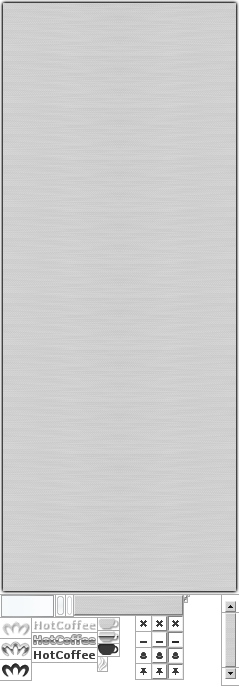
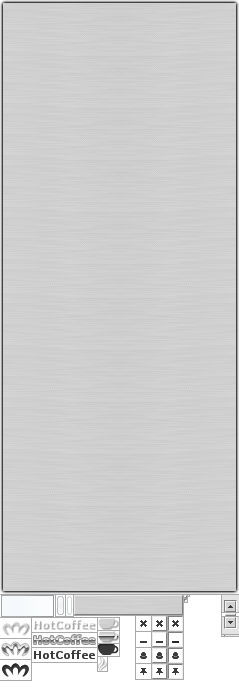
скининг

Changed region(s): [[0.9079, 0.84, 1.0, 0.99]]

diff --git a/Skins/IEView/styles/Graphite_Gray_Light.css b/Skins/IEView/styles/Graphite_Gray_Light.css
@@ -5,21 +5,21 @@
 }
 
 input {
-	background: #F1F1F1;
-	border-top: 1px solid #FFFFFF;
-	border-left: 1px solid #FFFFFF;
-	border-bottom: 1px solid #B4B4B4;
-	border-right: 1px solid #B4B4B4;
-	color: #595959;
+	background: #D2D2D2;
+	border-top: 1px solid #F4F4F4;
+	border-left: 1px solid #F4F4F4;
+	border-bottom: 1px solid #808080;
+	border-right: 1px solid #808080;
+	color: #3A3A3A;
 }
 
 html {
-	scrollbar-face-color: #F1F1F1;
-	scrollbar-highlight-color: #F1F1F1;
-	scrollbar-shadow-color: #F1F1F1;
-	scrollbar-arrow-color: #595959;
-	scrollbar-3dlight-color: #FFFFFF;
-	scrollbar-darkshadow-color: #B4B4B4;
+	scrollbar-face-color: #D2D2D2;
+	scrollbar-highlight-color: #D2D2D2;
+	scrollbar-shadow-color: #D2D2D2;
+	scrollbar-arrow-color: #3A3A3A;
+	scrollbar-3dlight-color: #F4F4F4;
+	scrollbar-darkshadow-color: #808080;
 	scrollbar-track-color: #E4E4E4;
 	background: url(Light.png) fixed no-repeat bottom right;
 	background-color: #E4E4E4;
